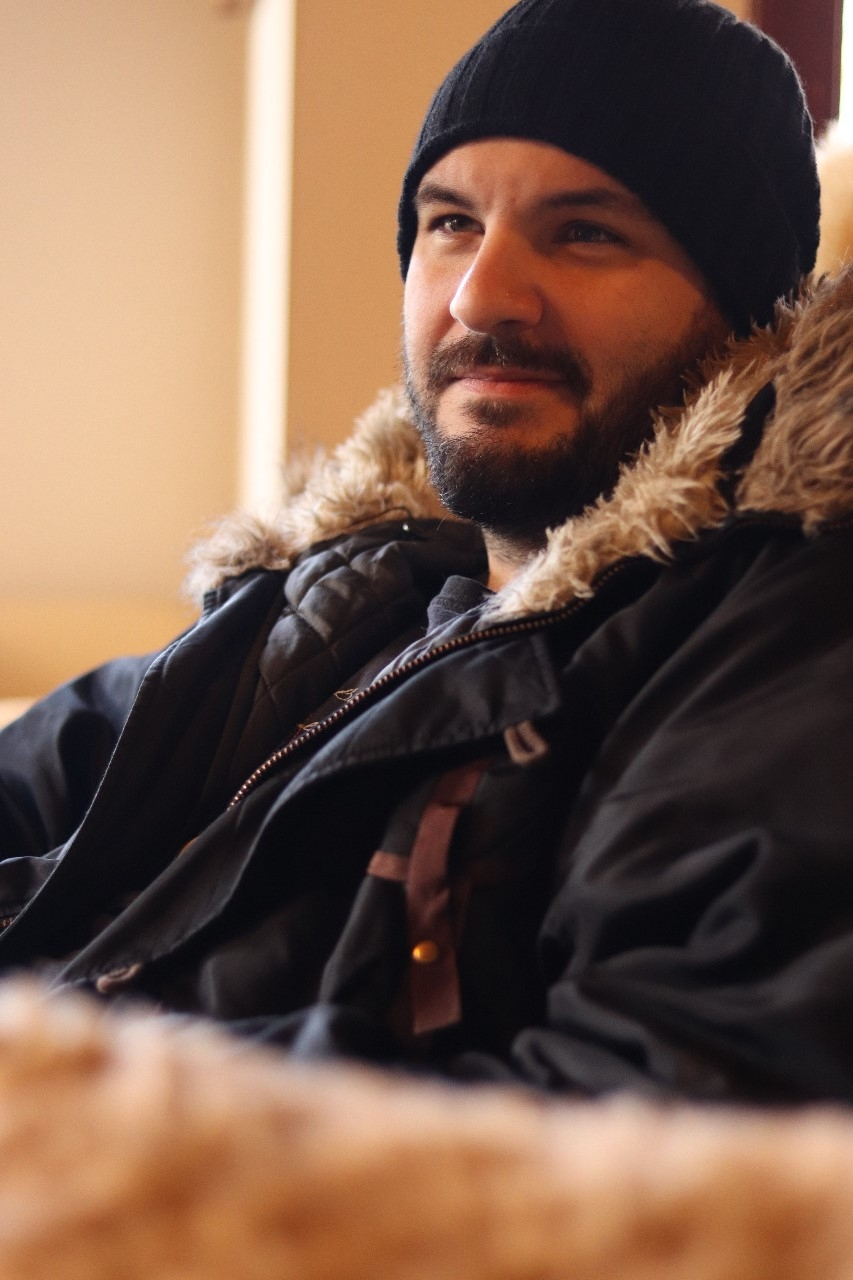
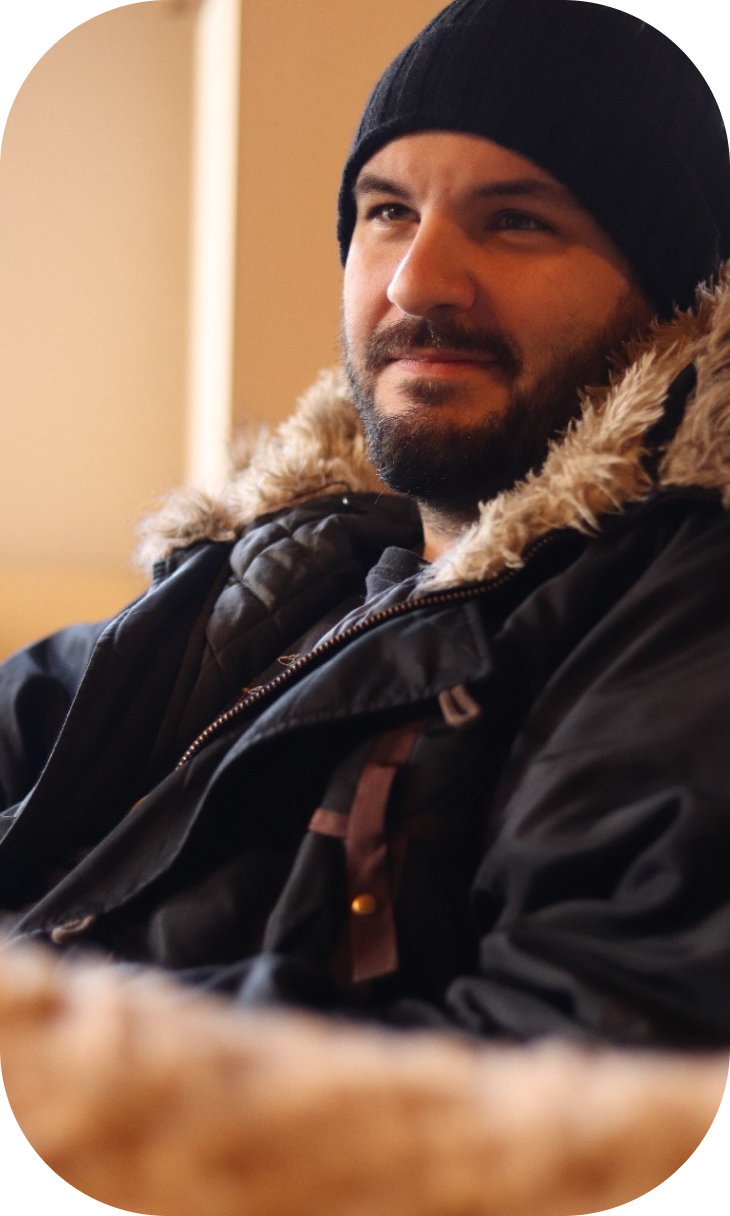
aula

diff --git a/styles/Home.css b/styles/Home.css
@@ -5,17 +5,23 @@
     font-family: 'Roboto Condensed', sans-serif;
 }
 .green {
+    width: 65%;
+    height: 100%;
+    background-color: #56BE5A;
     position: absolute;
-    left: 0px;
-    top: 0px;
+    left: 0;
+    top: 0;
+    z-index: -1;
+    clip-path: polygon(0 0, 46% 0, 35% 100%, 0% 100%);
 }
-.green svg {
-    height: 100% !important;
-}
+
 .maindiv {
+    display: flex;
+    justify-content: center;
+    align-items: center;
+    text-align: center;
+    height: 100vh;
     flex-direction: column;
-    background-color: #4A8C8C;
-    border-radius: 50px;
 }
 
 
@@ -25,12 +31,20 @@
 }
 
 .img {
-    width: 100px;
-    border-radius: 50px;
-    margin: 30px;
+    width: 365px;
+    height: 608px;
 }
 
 .text {
-    text-align: center;
-    margin-bottom: 40px;
+    color: white;
+}
+.div1 {
+    font-size: 96px;
+}
+.div2 {
+    color: #4A8C8C;
+    font-size: 61px;
+}
+.frontend {
+    color: #3F8C42;
 }

diff --git a/index.html b/index.html
@@ -27,19 +27,20 @@
         </nav>
     </header>
 
+    <div>
+        <img class="img" src="./images/minhafoto.jpg" alt="myphoto">
+    </div>
     <div class="maindiv">
 
         <div class="div1">
-            <img class="img" src="./images/minhafoto.jpg" alt="fotoricardo">
             <p class="text">Hi, <span class="iamkoto">iamkoto</span> !</p>
+        </div>
+        <div class="div2">
+            <p>I'm a <span class="frontend">Front End Developer</span></p>
         </div>
 
     </div> 
-    <div class="green">
-        <svg width="584" height="1080" viewBox="0 0 584 1080" fill="none" xmlns="http://www.w3.org/2000/svg">
-            <path d="M0 0H583.5L450.5 1080H0V0Z" fill="#56BE5A"/>
-        </svg>
-    </div>
+    <div class="green"></div>
 
 </body>
 </html>
